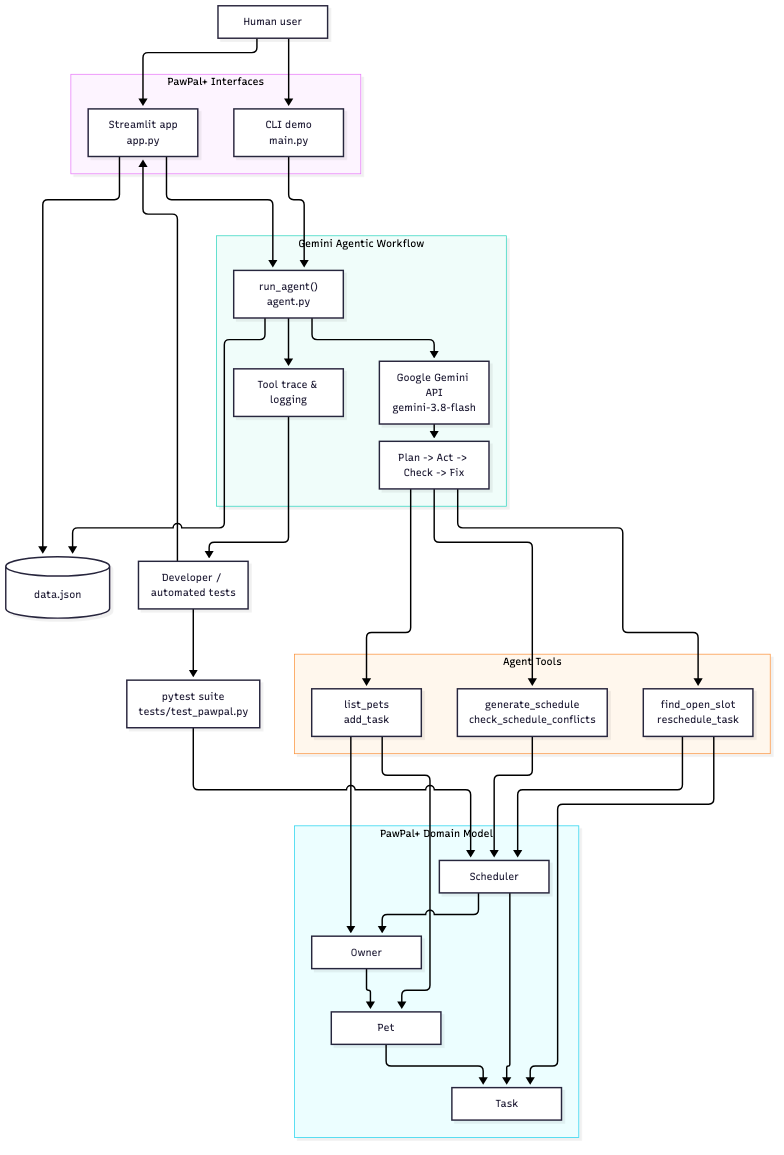
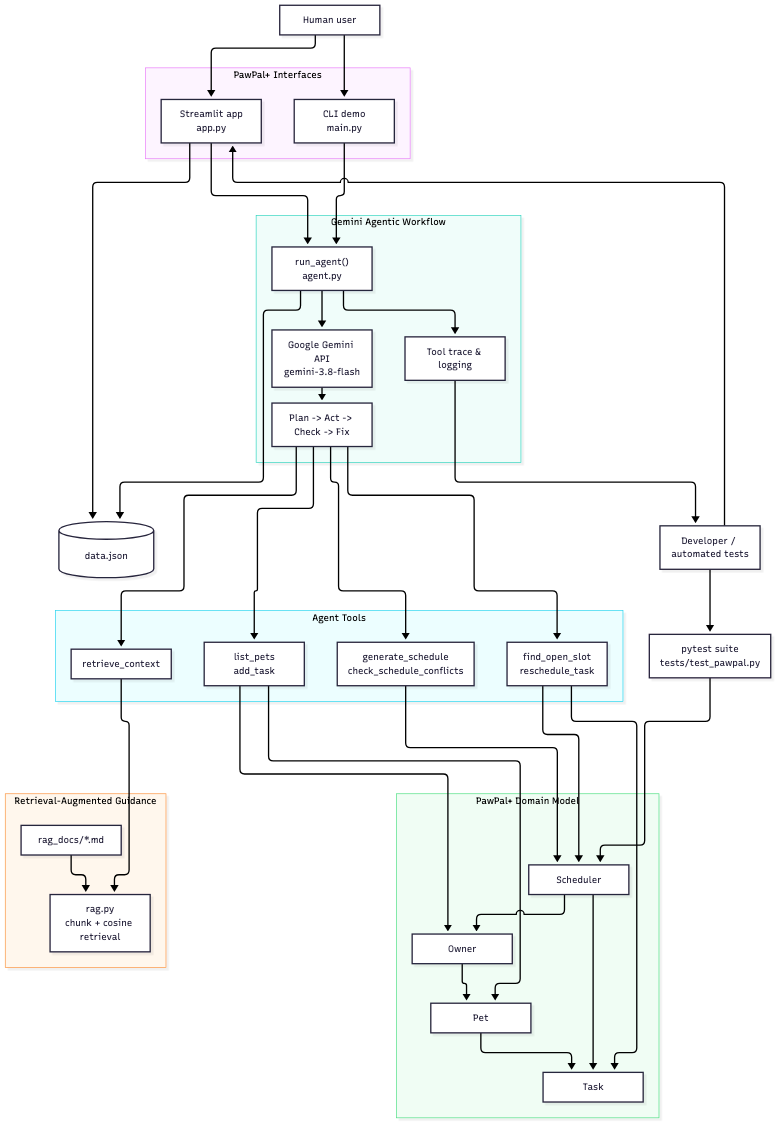
Add local RAG pet-care retrieval

Changed region(s): [[0.0, 0.0, 1.0, 0.9868], [0.0, 0.6784, 0.2143, 0.8634], [0.4898, 0.0925, 0.5204, 0.1233]]

diff --git a/agent.py b/agent.py
@@ -13,6 +13,7 @@ from __future__ import annotations
 
 import logging
 import os
+from pathlib import Path
 from dataclasses import dataclass
 from datetime import time
 
@@ -20,6 +21,7 @@ from google import genai
 from google.genai import errors, types
 
 from pawpal_system import Owner, Pet, Scheduler, Task
+from rag import PetCareKnowledgeBase, format_retrieved_context
 
 logger = logging.getLogger(__name__)
 
@@ -32,6 +34,8 @@ request into real changes to their schedule, using the tools you're given. Work 
 1. PLAN: if the request implies new care tasks, call add_task for each one. If you're not sure a \
 pet name the owner used actually exists, call list_pets first — never invent a pet; if it really \
 doesn't exist, say so in your final summary instead of guessing.
+Use retrieve_context for requests that need pet-care guidance, such as medication, vet visits, feeding, walks, or grooming.
+Use retrieved guidance only as general context; it does not replace veterinary advice or prescribed instructions.
 2. ACT: call generate_schedule to build today's plan from every task.
 3. CHECK: call check_schedule_conflicts to verify the schedule you just built has no overlaps.
 4. FIX: if conflicts are reported, use find_open_slot to find room and reschedule_task to move the \
@@ -203,6 +207,19 @@ def build_tools(owner: Owner, scheduler: Scheduler, trace: list[dict]) -> list:
         _log_step(trace, "reschedule_task", inputs, result)
         return result
 
+    knowledge_base = PetCareKnowledgeBase(Path(__file__).parent / "rag_docs")
+
+    def retrieve_context(query: str) -> str:
+        """Retrieve relevant local pet-care guidance for a request."""
+        try:
+            chunks = knowledge_base.retrieve(query, top_k=3)
+            result = format_retrieved_context(chunks)
+        except Exception as exc:
+            result = f"Could not retrieve pet-care guidance: {exc}"
+            logger.error("retrieve_context failed: %s", exc)
+        _log_step(trace, "retrieve_context", {"query": query}, result)
+        return result
+
     functions = {
         "list_pets": list_pets,
         "add_task": add_task,
@@ -210,6 +227,7 @@ def build_tools(owner: Owner, scheduler: Scheduler, trace: list[dict]) -> list:
         "check_schedule_conflicts": check_schedule_conflicts,
         "find_open_slot": find_open_slot,
         "reschedule_task": reschedule_task,
+        "retrieve_context": retrieve_context,
     }
 
     declarations = [
@@ -251,6 +269,15 @@ def build_tools(owner: Owner, scheduler: Scheduler, trace: list[dict]) -> list:
                     "after": types.Schema(type=types.Type.STRING),
                 },
                 required=["duration_minutes"],
+            ),
+        ),
+        types.FunctionDeclaration(
+            name="retrieve_context",
+            description="Retrieve relevant guidance from the local pet-care knowledge base.",
+            parameters=types.Schema(
+                type=types.Type.OBJECT,
+                properties={"query": types.Schema(type=types.Type.STRING)},
+                required=["query"],
             ),
         ),
         types.FunctionDeclaration(

diff --git a/rag.py b/rag.py
@@ -1,0 +1,83 @@
+"""Small, local retrieval helper for PawPal+ knowledge-grounded responses."""
+
+from __future__ import annotations
+
+import math
+import re
+from dataclasses import dataclass
+from pathlib import Path
+
+
+@dataclass(frozen=True)
+class DocumentChunk:
+    source: str
+    text: str
+
+
+_TOKEN_RE = re.compile(r"[a-z0-9]+")
+
+
+def _tokens(text: str) -> list[str]:
+    return _TOKEN_RE.findall(text.lower())
+
+
+def _chunk_text(source: str, text: str) -> list[DocumentChunk]:
+    chunks = []
+    for paragraph in re.split(r"\n\s*\n", text.strip()):
+        paragraph = " ".join(paragraph.split())
+        if paragraph:
+            chunks.append(DocumentChunk(source=source, text=paragraph))
+    return chunks
+
+
+def load_chunks(directory: str | Path) -> list[DocumentChunk]:
+    """Load Markdown or text files as paragraph-sized chunks."""
+    directory = Path(directory)
+    chunks: list[DocumentChunk] = []
+    if not directory.exists():
+        return chunks
+
+    for path in sorted(directory.iterdir()):
+        if path.is_file() and path.suffix.lower() in {".md", ".txt"}:
+            chunks.extend(_chunk_text(path.name, path.read_text(encoding="utf-8")))
+    return chunks
+
+
+def cosine_similarity(left: dict[str, int], right: dict[str, int]) -> float:
+    dot = sum(left.get(token, 0) * count for token, count in right.items())
+    left_norm = math.sqrt(sum(count * count for count in left.values()))
+    right_norm = math.sqrt(sum(count * count for count in right.values()))
+    if not left_norm or not right_norm:
+        return 0.0
+    return dot / (left_norm * right_norm)
+
+
+class PetCareKnowledgeBase:
+    """A dependency-free retriever using term-frequency cosine similarity."""
+
+    def __init__(self, directory: str | Path):
+        self.chunks = load_chunks(directory)
+
+    def retrieve(self, query: str, top_k: int = 3) -> list[DocumentChunk]:
+        if not query.strip() or not self.chunks:
+            return []
+
+        query_counts: dict[str, int] = {}
+        for token in _tokens(query):
+            query_counts[token] = query_counts.get(token, 0) + 1
+
+        ranked = []
+        for chunk in self.chunks:
+            chunk_counts: dict[str, int] = {}
+            for token in _tokens(chunk.text):
+                chunk_counts[token] = chunk_counts.get(token, 0) + 1
+            ranked.append((cosine_similarity(query_counts, chunk_counts), chunk))
+
+        ranked.sort(key=lambda item: item[0], reverse=True)
+        return [chunk for score, chunk in ranked[:top_k] if score > 0]
+
+
+def format_retrieved_context(chunks: list[DocumentChunk]) -> str:
+    if not chunks:
+        return "No relevant local pet-care guidance was found."
+    return "\n\n".join(f"Source: {chunk.source}\n{chunk.text}" for chunk in chunks)

diff --git a/tests/test_pawpal.py b/tests/test_pawpal.py
@@ -4,6 +4,7 @@ import pytest
 
 from agent import _find_pet, _find_task, _parse_time
 from pawpal_system import Owner, Pet, Scheduler, Task
+from rag import PetCareKnowledgeBase, format_retrieved_context
 
 
 def test_sort_by_time_returns_chronological_order():
@@ -305,3 +306,32 @@ def test_parse_time_accepts_hh_mm():
 def test_parse_time_rejects_bad_input():
     with pytest.raises(ValueError, match="HH:MM"):
         _parse_time("not a time")
+
+
+def test_rag_retrieves_matching_local_guidance(tmp_path):
+    (tmp_path / "feeding.md").write_text(
+        "# Feeding\n\nUse routine meal times and a short realistic feeding duration.",
+        encoding="utf-8",
+    )
+    (tmp_path / "medication.md").write_text(
+        "# Medication\n\nMedication timing should be verified with a veterinarian.",
+        encoding="utf-8",
+    )
+
+    base = PetCareKnowledgeBase(tmp_path)
+    chunks = base.retrieve("feeding duration meal")
+
+    assert chunks
+    assert "feeding" in chunks[0].text.lower()
+
+
+def test_rag_returns_no_context_for_empty_query(tmp_path):
+    (tmp_path / "walks.txt").write_text("A walk should fit the pet's needs.", encoding="utf-8")
+
+    base = PetCareKnowledgeBase(tmp_path)
+
+    assert base.retrieve("   ") == []
+
+
+def test_rag_formatter_marks_missing_context():
+    assert format_retrieved_context([]) == "No relevant local pet-care guidance was found."

diff --git a/README.md b/README.md
@@ -36,6 +36,7 @@ Your final app should:
 - **Recurrence conflict auto-resolve** — `Scheduler.resolve_recurrence_conflict()` builds on the slot finder: if a freshly-recurring task would land on top of something else, it's automatically bumped to the next open slot instead of silently overlapping.
 - **JSON persistence** — `Owner.save_to_json()` / `Owner.load_from_json()` (backed by `to_dict()`/`from_dict()` on `Task`, `Pet`, and `Owner`) let the whole system — every pet and every task — survive between runs.
 - **Formatted output** — emoji priority/task-type labels and a `tabulate`-rendered CLI table (`formatting.py`, used by `main.py`), plus color-coded priority badges in the Streamlit UI.
+- **📚 Retrieval-Augmented Pet-Care Guidance (RAG)** — `rag.py` loads local Markdown from `rag_docs/`, splits it into paragraph chunks, retrieves the most relevant guidance with term-frequency cosine similarity, and exposes it to Gemini through a `retrieve_context` tool. Retrieved text is shown in the agent trace and used to ground general responses, not replace veterinary advice.
 - **🤖 AI Scheduling Assistant (Agentic Workflow)** — `agent.py`'s `run_agent()` turns a plain-language request ("Mochi needs a walk and a vet visit after lunch, both high priority") into real changes: it plans by calling `add_task`, acts by calling `generate_schedule`, checks its own work with `check_schedule_conflicts`, and fixes anything it finds with `find_open_slot` + `reschedule_task` — repeating the check/fix step until the schedule is clean. Wired into both `app.py` (an "AI Scheduling Assistant" section with a text box, a step-by-step trace, and the resulting schedule) and `main.py` (a CLI demo at the end of the run). See **AI Scheduling Assistant** below for setup and how it maps to the assignment's AI-feature requirement.
 
 ## 🤖 AI Scheduling Assistant (Agentic Workflow)
@@ -48,6 +49,8 @@ This is the project's required "advanced AI feature": an **agentic workflow** bu
 2. **Act** — calls `generate_schedule` to build the day's plan.
 3. **Check** — calls `check_schedule_conflicts` to verify its own work.
 4. **Fix** — if conflicts are found, calls `find_open_slot` + `reschedule_task` to resolve them, then checks again.
+
+**RAG retrieval:** Before answering requests that involve feeding, walks, grooming, medication, vet visits, or conflicts, the agent can call `retrieve_context`. PawPal+ searches local documents in `rag_docs/`, ranks paragraph chunks by cosine similarity, and returns the cited source text to Gemini. This improves grounding without sending the pet-care library to a third-party vector service.
 
 **Guardrails & logging:** every tool call is wrapped in its own try/except (a bad pet name, task field, or time string comes back as a clear error string instead of crashing the run) and logged via the standard `logging` module and an in-memory trace shown in the UI; the loop is capped (`max_iterations`, default 8) so a confused run can't go forever.
 
@@ -137,7 +140,7 @@ Today's Schedule
 
 ## 🧪 Testing PawPal+ and the Agent
 
-The full suite currently contains 16 tests. Existing domain tests verify completion, sorting, conflicts, recurrence, slot finding, and persistence. The added agent helper tests verify pet/task lookup and 24-hour time parsing without making any Gemini API calls.
+The full suite currently contains 19 tests. Existing domain tests verify completion, sorting, conflicts, recurrence, slot finding, and persistence. The added agent helper tests verify pet/task lookup and 24-hour time parsing without making any Gemini API calls.
 
 Without a Gemini key, the CLI and Streamlit app both degrade to a friendly skip/error state. Live Gemini verification requires a valid key and available model quota.
 
@@ -170,16 +173,16 @@ platform darwin -- Python 3.14.7, pytest-9.1.1, pluggy-1.7.0
 rootdir: /Users/cottonskaka/Desktop/Codepath/ai110-module2show-pawpal-starter1
 configfile: pytest.ini
 plugins: anyio-4.15.1
-collected 16 items
+collected 19 items
 
-tests/test_pawpal.py ................                                  [100%]
+tests/test_pawpal.py ...................                              [100%]
 
-============================== 16 passed in 0.28s ==============================
+============================== 19 passed in 0.40s ==============================
 ```
 
 ### Confidence Level
 
-⭐⭐⭐⭐☆ (4/5) — All 16 tests pass, covering task completion, pet task tracking, chronological and priority+time sorting, daily recurrence, conflict detection, slot-finding, recurrence conflict auto-resolve, JSON persistence, and agent helper parsing. Confidence isn't a full 5 stars because live model availability and provider-side quota/latency remain outside the unit test environment.
+⭐⭐⭐⭐☆ (4/5) — All 19 tests pass, covering task completion, pet task tracking, chronological and priority+time sorting, daily recurrence, conflict detection, slot-finding, recurrence conflict auto-resolve, JSON persistence, and agent helper parsing. Confidence isn't a full 5 stars because live model availability and provider-side quota/latency remain outside the unit test environment.
 
 ## 🔎 Reflection
 
@@ -203,8 +206,10 @@ The AI feature is evaluated at two levels: deterministic automated tests for its
 | `_find_task(owner, "Mochi", "Unknown")` | Returns a clear available-task error | Pass |
 | `_parse_time("14:30")` | Parses a valid 24-hour time | Pass |
 | `_parse_time("not-a-time")` | Rejects malformed input with a corrective `HH:MM` message | Pass |
+| `PetCareKnowledgeBase.retrieve("feeding duration")` | Retrieves the matching local feeding guidance | Pass |
+| Empty RAG query | Returns no fabricated context | Pass |
 
-The full suite also covers scheduling correctness, conflict detection, recurrence, slot finding, persistence, and task behavior. At last run, **16 tests passed** locally without any Gemini API call.
+The full suite also covers scheduling correctness, conflict detection, recurrence, slot finding, persistence, and task behavior. At last run, **19 tests passed** locally without any Gemini API call.
 
 ### Runtime guardrails and logging
 

diff --git a/model_card.md b/model_card.md
@@ -39,6 +39,12 @@ While developing this feature, I used AI collaboration to inspect the project, c
 
 **What I learned:** a reliable AI feature needs explicit boundaries. Clear tool schemas, real-state lookup, error translation, iteration limits, logging, unit tests, and a manual fallback are more important than making every response look polished. One limitation of my current testing is that it has not yet recorded a complete successful Gemini task-creation-and-conflict-resolution run, so live human evaluation remains pending.
 
+## RAG Scope and Risks
+
+PawPal+ now includes a local RAG knowledge base in `rag_docs/`. It uses simple paragraph chunking and term-frequency cosine similarity, then exposes retrieval through Gemini's `retrieve_context` tool. This is not a medical knowledge base and may miss relevant guidance because it does not use embeddings or semantic re-ranking. Retrieved material is general scheduling context only and must not interpret a prescription or replace veterinarian care.
+
+The library can be improved by veterinarians or trusted owners. Every retrieval result includes its source filename in the agent trace. If no relevant text is found, the tool clearly reports that no local context was available.
+
 ## Responsible Use Summary
 
 Use this project for demonstration and low-stakes schedule assistance. Add or review tasks in the UI, especially when a model moves an existing task. Do not use generated pet-care timings as veterinary advice or in a critical health workflow. Keep API keys private, do not commit secrets, and report provider errors rather than retrying indefinitely.

diff --git a/rag_docs/pet_care_guidelines.md b/rag_docs/pet_care_guidelines.md
@@ -1,0 +1,19 @@
+# PawPal+ Pet-Care Guidance
+
+## Feeding
+For routine feeding, use a short, realistic duration and include a clear meal description. Feeding can usually be scheduled near the owner's morning or evening routine. This guidance is general scheduling support, not medical advice.
+
+## Walks and Outdoor Activity
+Walk duration should match the activity, pet size, weather, and the owner's available time. A 20-to-30-minute walk is a common example, but an owner should follow veterinarian guidance for health conditions.
+
+## Medication
+Medication timing can be important. PawPal+ can create or move a medication task, but it must not interpret a prescription, determine a medical dose, or replace veterinarian instructions. If timing is medically prescribed, the owner should verify it directly.
+
+## Grooming
+Grooming tasks include brushing, nail trimming, bathing, or coat care. Short grooming tasks should not overlap walks or feeding when the owner is unable to supervise separate activities at once.
+
+## Vet Visits
+Vet visits should be treated as scheduled appointments with enough duration for travel and the visit when possible. Emergency symptoms require an appropriate veterinary or emergency service, not an application-generated routine plan.
+
+## Conflict Handling
+If tasks overlap, prefer a clear open slot found from the scheduler rather than silently changing a task. Preserve high-priority tasks when possible and report any task that was moved.
